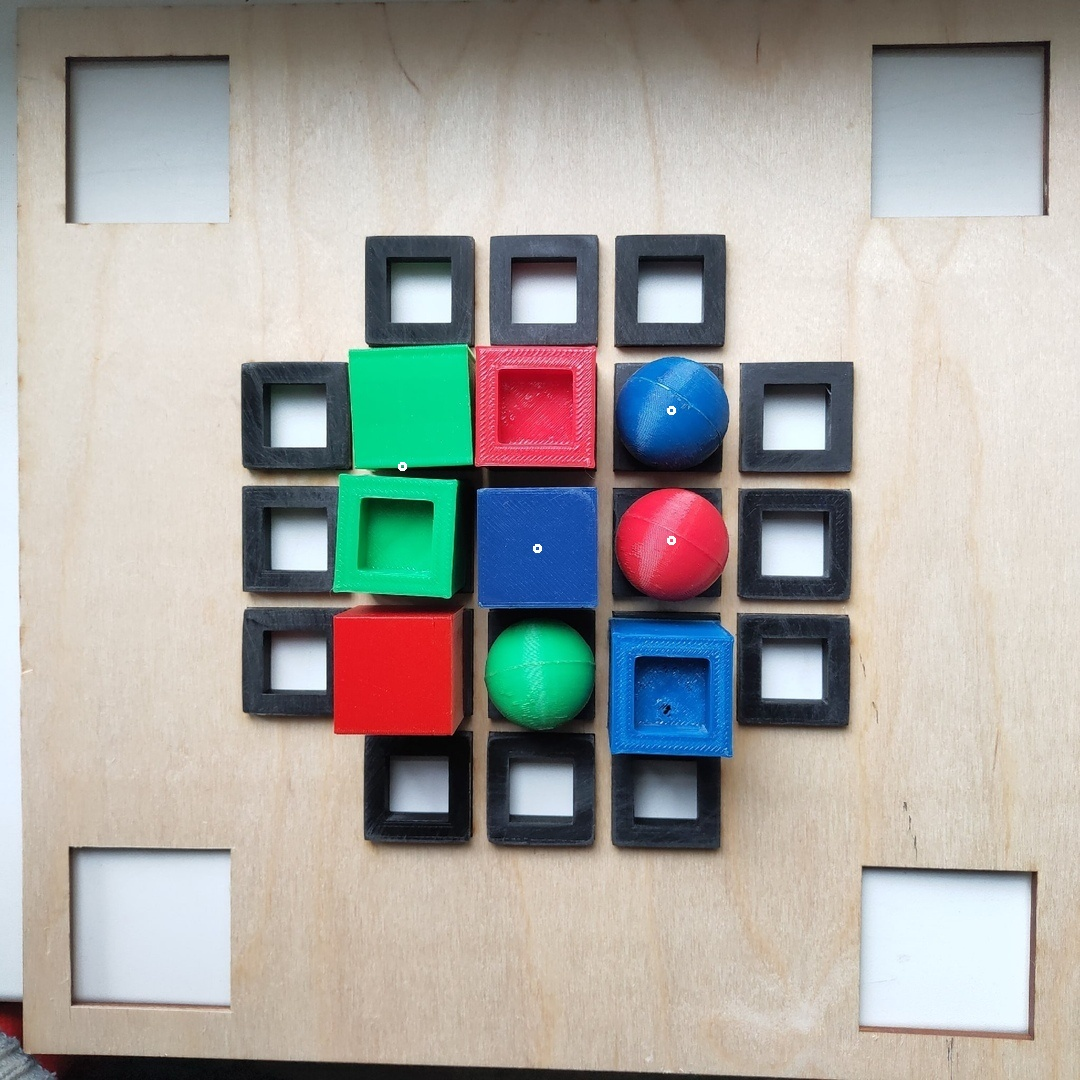
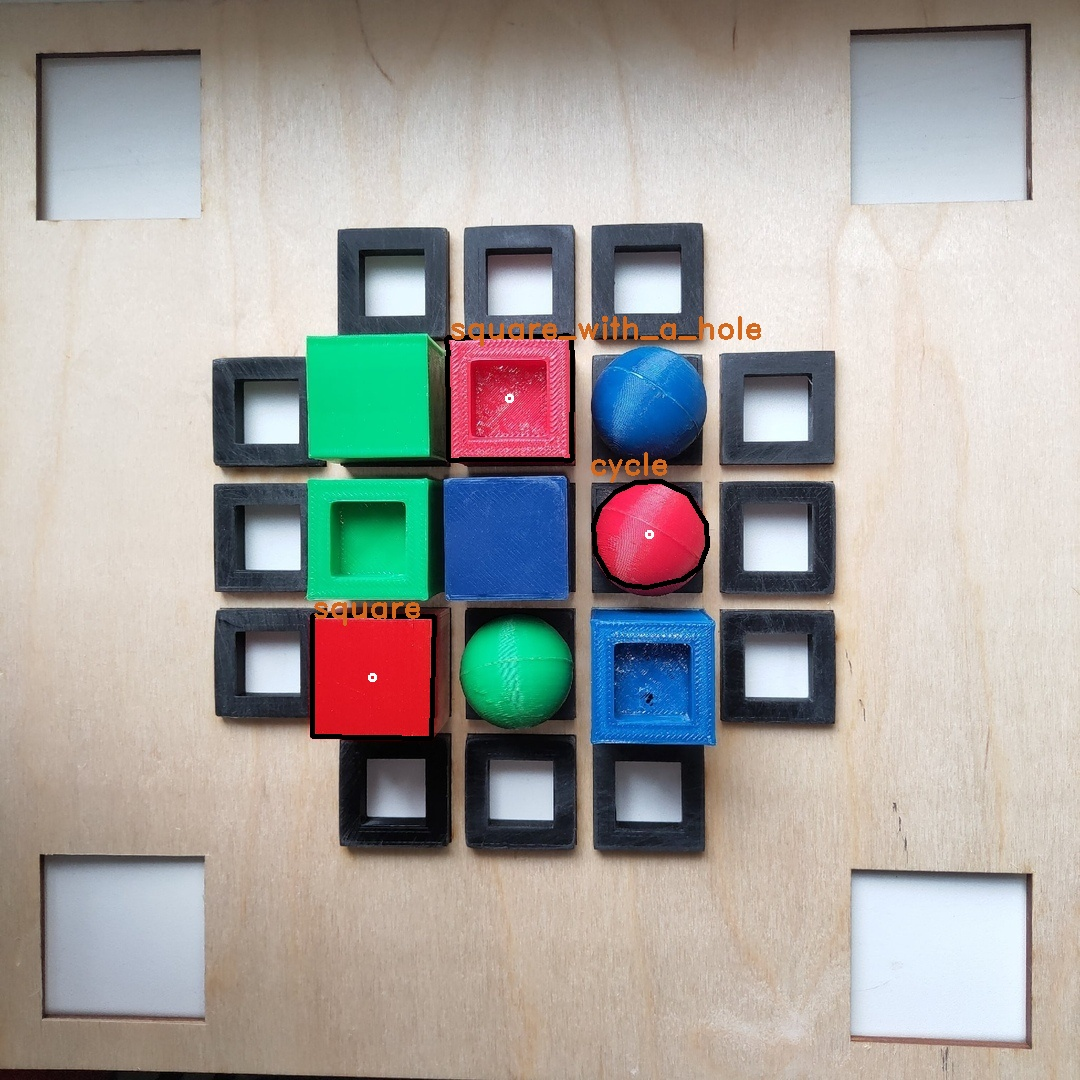
отрисовка контуров

diff --git a/Classes/Classificate.py b/Classes/Classificate.py
@@ -34,14 +34,14 @@ class ColorClassif(IClassesificationType):
         cnt_list = []
         max_area = 0
         for cnt in contours:
-            approx = cv2.approxPolyDP(cnt, 0.02 * cv2.arcLength(cnt, True), True)
+            approx = cv2.approxPolyDP(cnt, 0.01 * cv2.arcLength(cnt, True), True)
             line_len = len(cnt)
             if line_len > 100 and len(approx) >= 8:
                 ellipse = cv2.fitEllipse(cnt)
                 max_area = line_len if line_len > max_area else max_area
-                cnt_list.append((int(ellipse[0][0]), int(ellipse[0][1]), line_len, len(approx)))
-        squ = list(filter(lambda x: x[3] >= 8 and x[2] == max_area, cnt_list))
-        return [[squ[0][0], squ[0][1], 'cycle']]
+                cnt_list.append((int(ellipse[0][0]), int(ellipse[0][1]), line_len, len(approx), approx))
+        squ = list(filter(lambda x: x[3] >= 8 and x[2] == max_area, cnt_list))[-1]
+        return [[squ[0], squ[1], 'cycle', squ[4]]]
 
     def square(self, img):
         '''contours = cv2.findContours(self.img_approximation(img), cv2.RETR_EXTERNAL, cv2.CHAIN_APPROX_SIMPLE)[0]
@@ -68,7 +68,7 @@ class ColorClassif(IClassesificationType):
             x, y, w, h = cv2.boundingRect(cnt)
             #  print(len(approx), w * h / 100)
             if len(approx) == 4 and 170 >= w * h / 100 > 0.5:
-                cnt_list.append([int(x + w / 2), int(y + h / 2), 'square'])
+                cnt_list.append([int(x + w / 2), int(y + h / 2), 'square', approx])
         cnt_list.sort(key=lambda i: i[0] and i[1], reverse=False)
         linse_in_squ = []
         center_list = []
@@ -95,7 +95,7 @@ class ColorClassif(IClassesificationType):
             x, y, w, h = cv2.boundingRect(cnt)
             #  print(len(approx), w * h / 100)
             if len(approx) > 4 and 170 >= w * h / 100 > 0.5:
-                cnt_list.append([int(x + w / 2), int(y + h / 2), 'square_with_a_hole'])
+                cnt_list.append([int(x + w / 2), int(y + h / 2), 'square_with_a_hole', approx])
         cnt_list.sort(key=lambda i: i[0] and i[1], reverse=False)
         linse_in_squ = []
         center_list = []

diff --git a/MainCl.py b/MainCl.py
@@ -2,7 +2,7 @@ import cv2
 from Classes import Classificate
 import numpy as np
 
-img_uri = "RBkvD8nyo-4.jpg"
+img_uri = "hTs8l_VDQ90.jpg"
 
 
 def nothing(x):
@@ -13,13 +13,9 @@ img = cv2.imread(img_uri)
 filter_red = Classificate.ColorClassif((164, 93, 121), (255, 255, 255))
 filter_blue = Classificate.ColorClassif((86, 132, 25), (162, 255, 255))
 filter_green = Classificate.ColorClassif((70, 93, 42), (95, 255, 255))
-filter_list = [filter_green, filter_red, filter_blue]
+filter_list = [filter_red]
 
 list_center = []
-
-print(filter_blue.square_with_a_hole(img))
-print(filter_blue.cycle(img))
-print(filter_blue.square(img))
 
 def test():
     cv2.namedWindow("Tracking")
@@ -63,7 +59,9 @@ def main_classificate(img):
     print(list_center)
     for i in list_center:
         for j in i:
-            img = cv2.circle(img, (j[0], j[1]), 3, (255, 255, 255), 2)
+            cv2.circle(img, (j[0], j[1]), 3, (255, 255, 255), 2)
+            cv2.drawContours(img, [j[3]], -1, (0, 0, 0), 4)
+            cv2.cv2.putText(img, j[2], (j[0] - 60, j[1] - 60), cv2.QT_FONT_NORMAL, 1, (30, 105, 210), 2)
     cv2.imwrite("now.jpg", img)
 
 main_classificate(img)
